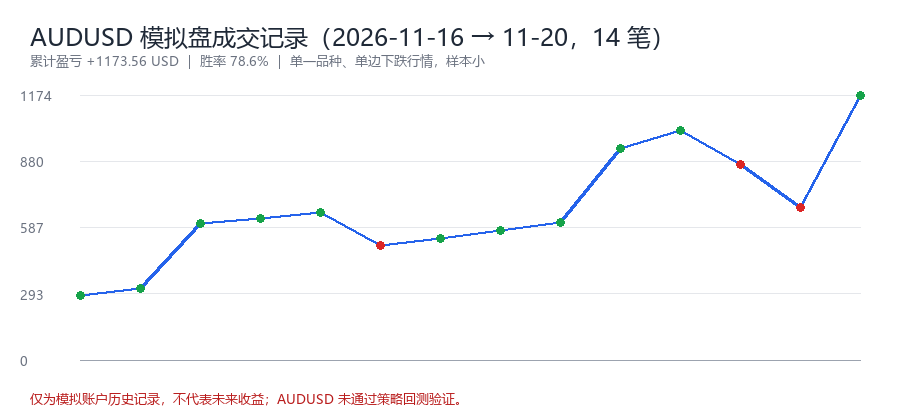
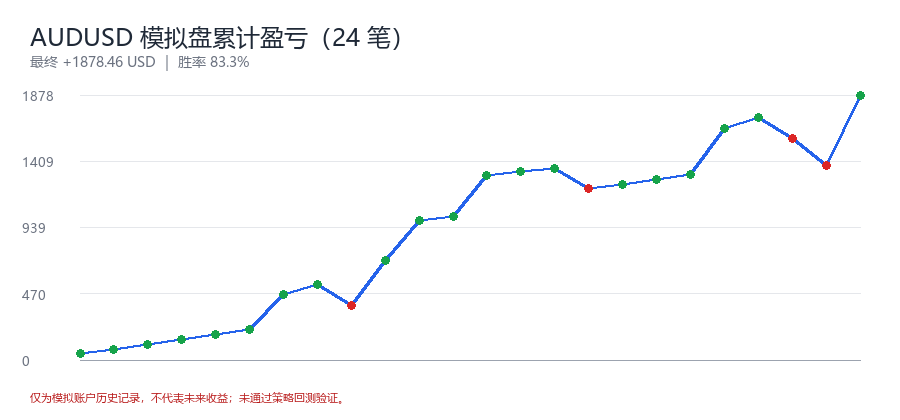
Update AUDUSD demo record: 24 trades, +1,878.46, win rate 83.3% (redacted, no order numbers)

diff --git a/_chart_aud2.py b/_chart_aud2.py
@@ -1,0 +1,89 @@
+
+# -*- coding: utf-8 -*-
+from PIL import Image, ImageDraw, ImageFont
+rows = [
+ ("11-11 17:45","sell",1.44,"0.68491","11-11 23:30","0.68458",47.52),
+ ("11-12 01:45","sell",1.44,"0.68446","11-12 03:06","0.68428",25.92),
+ ("11-12 03:45","sell",1.44,"0.68481","11-12 05:10","0.68457",34.56),
+ ("11-12 10:15","sell",1.44,"0.68258","11-12 11:00","0.68234",34.56),
+ ("11-12 11:45","sell",1.44,"0.68280","11-12 15:22","0.68255",36.00),
+ ("11-12 18:30","sell",1.20,"0.68095","11-12 23:30","0.68064",37.20),
+ ("11-13 03:15","sell",1.45,"0.68111","11-13 12:15","0.67941",246.53),
+ ("11-13 12:30","sell",1.45,"0.67940","11-13 13:31","0.67892",69.60),
+ ("11-13 15:15","sell",1.46,"0.67856","11-13 15:30","0.67955",-144.54),
+ ("11-13 16:45","sell",1.45,"0.67956","11-13 23:30","0.67737",317.55),
+ ("11-16 01:15","sell",1.46,"0.67753","11-16 10:15","0.67559",283.97),
+ ("11-16 10:45","sell",1.47,"0.67568","11-16 12:09","0.67547",30.87),
+ ("11-16 12:45","sell",1.47,"0.67568","11-16 21:45","0.67371",288.56),
+ ("11-16 22:15","sell",1.48,"0.67379","11-16 23:30","0.67362",25.16),
+ ("11-17 01:15","sell",1.48,"0.67352","11-17 02:38","0.67335",25.16),
+ ("11-17 03:15","sell",1.48,"0.67342","11-17 05:07","0.67440",-145.04),
+ ("11-17 10:30","sell",1.48,"0.67371","11-17 11:44","0.67351",29.60),
+ ("11-17 12:30","sell",1.48,"0.67378","11-17 16:03","0.67354",35.52),
+ ("11-18 07:45","sell",1.48,"0.67226","11-18 10:51","0.67203",34.04),
+ ("11-19 01:30","sell",1.48,"0.67137","11-19 07:45","0.66913",330.78),
+ ("11-19 20:15","sell",0.92,"0.66644","11-19 23:30","0.66560",77.28),
+ ("11-20 01:00","sell",1.25,"0.66549","11-20 06:43","0.66669",-150.00),
+ ("11-20 07:45","sell",1.20,"0.66594","11-20 08:10","0.66753",-190.80),
+ ("11-20 14:15","sell",1.39,"0.66596","11-20 23:15","0.66237",498.46),
+]
+def font(size, bold=False):
+    paths = [r"C:\Windows\Fonts\msyhbd.ttc", r"C:\Windows\Fonts\msyh.ttc"] if bold else [r"C:\Windows\Fonts\msyh.ttc", r"C:\Windows\Fonts\simhei.ttf"]
+    for p in paths:
+        try: return ImageFont.truetype(p, size)
+        except Exception: pass
+    return ImageFont.load_default()
+# ---- table image ----
+cols = ["开仓时间","类型","手数","开仓价","平仓时间","平仓价","盈亏 USD"]
+widths = [120, 70, 70, 90, 120, 90, 100]
+rowh = 26; pad = 16
+W = sum(widths) + pad*2
+H = 78 + rowh*(len(rows)+1) + 40
+img = Image.new("RGB",(W,H),"white"); d = ImageDraw.Draw(img)
+f_title = font(20); f_head = font(14, True); f_cell = font(13)
+d.text((pad,16),"AUDUSD 模拟盘成交记录（2026-11-11 → 11-20，24 笔）",fill="#111827",font=f_title)
+d.text((pad,44),"累计 +1,878.46 USD ｜ 胜率 83.3%（20 胜 4 负）｜ 单一品种、单边下跌行情、样本小",fill="#6b7280",font=font(12))
+y = 70
+x = pad
+for i,c in enumerate(cols):
+    d.rectangle([x,y,x+widths[i],y+rowh],fill="#f3f4f6",outline="#e5e7eb")
+    d.text((x+6,y+6),c,fill="#374151",font=f_head); x += widths[i]
+y += rowh
+for r in rows:
+    x = pad
+    vals = [r[0],r[1],f"{r[2]:.2f}",r[3],r[4],r[5],f"{r[6]:+.2f}"]
+    for i,v in enumerate(vals):
+        d.rectangle([x,y,x+widths[i],y+rowh],outline="#f3f4f6")
+        col = "#111827"
+        if i==6: col = "#16a34a" if r[6]>=0 else "#dc2626"
+        if i==1: col = "#b91c1c"
+        d.text((x+6,y+6),v,fill=col,font=f_cell); x += widths[i]
+    y += rowh
+d.text((pad,H-28),"仅为模拟账户历史记录，不代表未来收益；AUDUSD 未通过策略回测验证（两段回测均为负）。",fill="#b91c1c",font=font(11))
+img.save(r"C:\Users\ruaibeite\Desktop\gold\gold-auto-ea-showcase\assets\audusd-trades.png")
+# ---- cumulative curve ----
+cum=[]; s=0
+for r in rows:
+    s += r[6]; cum.append(s)
+W2,H2 = 900, 420
+img2 = Image.new("RGB",(W2,H2),"white"); d2 = ImageDraw.Draw(img2)
+d2.text((30,20),"AUDUSD 模拟盘累计盈亏（24 笔）",fill="#1f2937",font=font(24))
+d2.text((30,52),f"最终 +{cum[-1]:.2f} USD ｜ 胜率 83.3%",fill="#6b7280",font=font(14))
+left,top,right,bottom = 80,95,W2-40,H2-60
+vmin,vmax = min(0,min(cum)), max(cum); 
+if vmax==vmin: vmax=vmin+1
+def y(v): return bottom-(v-vmin)/(vmax-vmin)*(bottom-top)
+def x(i): return left + (i)/(len(cum)-1)*(right-left)
+for k in range(5):
+    v = vmin + (vmax-vmin)*k/4
+    yy=y(v); d2.line([(left,yy),(right,yy)],fill="#e5e7eb")
+    d2.text((left-58,yy-8),f"{v:.0f}",fill="#6b7280",font=font(13))
+if vmin<=0<=vmax: d2.line([(left,y(0)),(right,y(0))],fill="#9ca3af")
+pts=[(x(i),y(c)) for i,c in enumerate(cum)]
+d2.line(pts,fill="#2563eb",width=3)
+for i,(px,py) in enumerate(pts):
+    col = "#16a34a" if rows[i][6]>=0 else "#dc2626"
+    d2.ellipse([px-4,py-4,px+4,py+4],fill=col)
+d2.text((30,H2-30),"仅为模拟账户历史记录，不代表未来收益；未通过策略回测验证。",fill="#b91c1c",font=font(11))
+img2.save(r"C:\Users\ruaibeite\Desktop\gold\gold-auto-ea-showcase\assets\audusd-live.png")
+print("trades", len(rows), "sum", round(cum[-1],2))

diff --git a/README.md b/README.md
@@ -76,14 +76,21 @@ GoldAutoEA 是一套面向 **XAUUSD（黄金）M15** 的量化交易策略，运
 
 ### AUDUSD 模拟盘记录（仅作参考）
 
-![AUDUSD模拟盘记录](assets/audusd-live.png)
+![AUDUSD成交记录](assets/audusd-trades.png)
+
+![AUDUSD累计盈亏](assets/audusd-live.png)
 
 | 区间 | 笔数 | 胜率 | 累计盈亏 |
 |---|---|---|---|
-| 2026-11-16 → 2026-11-20 | 14 | 78.6% | **+1,173.56** |
+| 2026-11-11 → 2026-11-20 | 24 | **83.3%** | **+1,878.46** |
 
-> 这段记录**不是策略的有效性证明**：样本仅 14 笔，且期间 AUDUSD 单边下跌、策略以做空为主，属于有利行情 + 锁利机制的结果。
-> 同期 AUDUSD 的完整回测为负（见上表），请勿据此认为策略适用于澳元。
+> 截图中已隐去订单号等无关信息。
+>
+> 这段记录**不是策略的有效性证明**：
+> - 样本仅 24 笔、时间约 8 个交易日；
+> - 期间 AUDUSD 从 0.685 跌到 0.662，属于**单边下跌**，而策略以做空为主，方向恰好一致；
+> - 配合"浮盈锁利"机制，表现为"高胜率、小额盈利"；
+> - 同期 AUDUSD 的完整回测为 **−7.8%（两段均为负）**，请勿据此认为策略适用于澳元。
 
 > 我们选择公开这段不理想的实盘记录：**短期样本没有统计意义**，但隐瞒它才是真正的不诚实。
 
